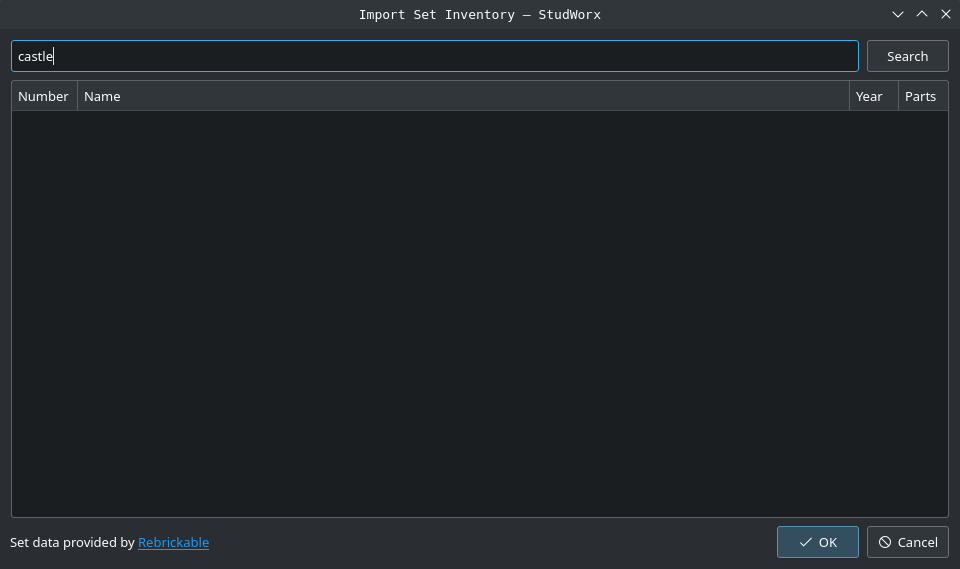
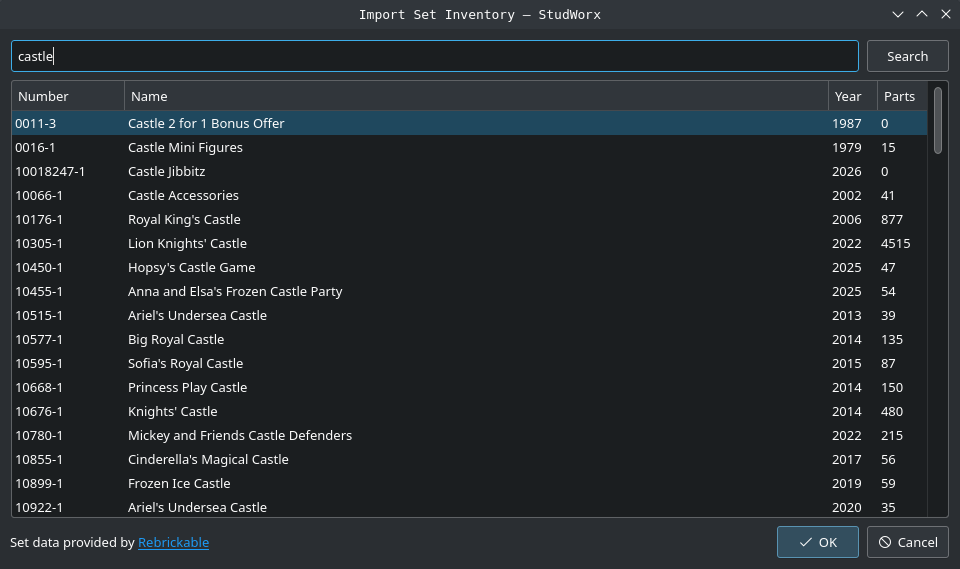
Code & Features Update

diff --git a/index.html b/index.html
@@ -3176,6 +3176,7 @@ studworx/tools/studworx-install [prefix] [build directory]</code></pre>
 					<li>Import Set Inventory: the Name column takes the free width, so long set names show in full</li>
 					<li>Step View: the dialog fits its fields, with labels on the left and fields to the right edge</li>
 					<li>Site: the Rendering, <a href="#views">Views</a>, Keyboard and Mouse preference screenshots show the shared slider value column and a selected shortcut conflict in red, and the Steps section shows the Step View dialog</li>
+					<li>Site: the Import Set Inventory screenshot shows search results</li>
 				</ul>
 			</details>
 

diff --git a/NOTICE.md b/NOTICE.md
@@ -35,6 +35,7 @@
   - Import Set Inventory: the Name column takes the free width, so long set names show in full
   - Step View: the dialog fits its fields, with labels on the left and fields to the right edge
   - Site: the Rendering, Views, Keyboard and Mouse preference screenshots show the shared slider value column and a selected shortcut conflict in red, and the Steps section shows the Step View dialog
+  - Site: the Import Set Inventory screenshot shows search results
 
   </details>
 
